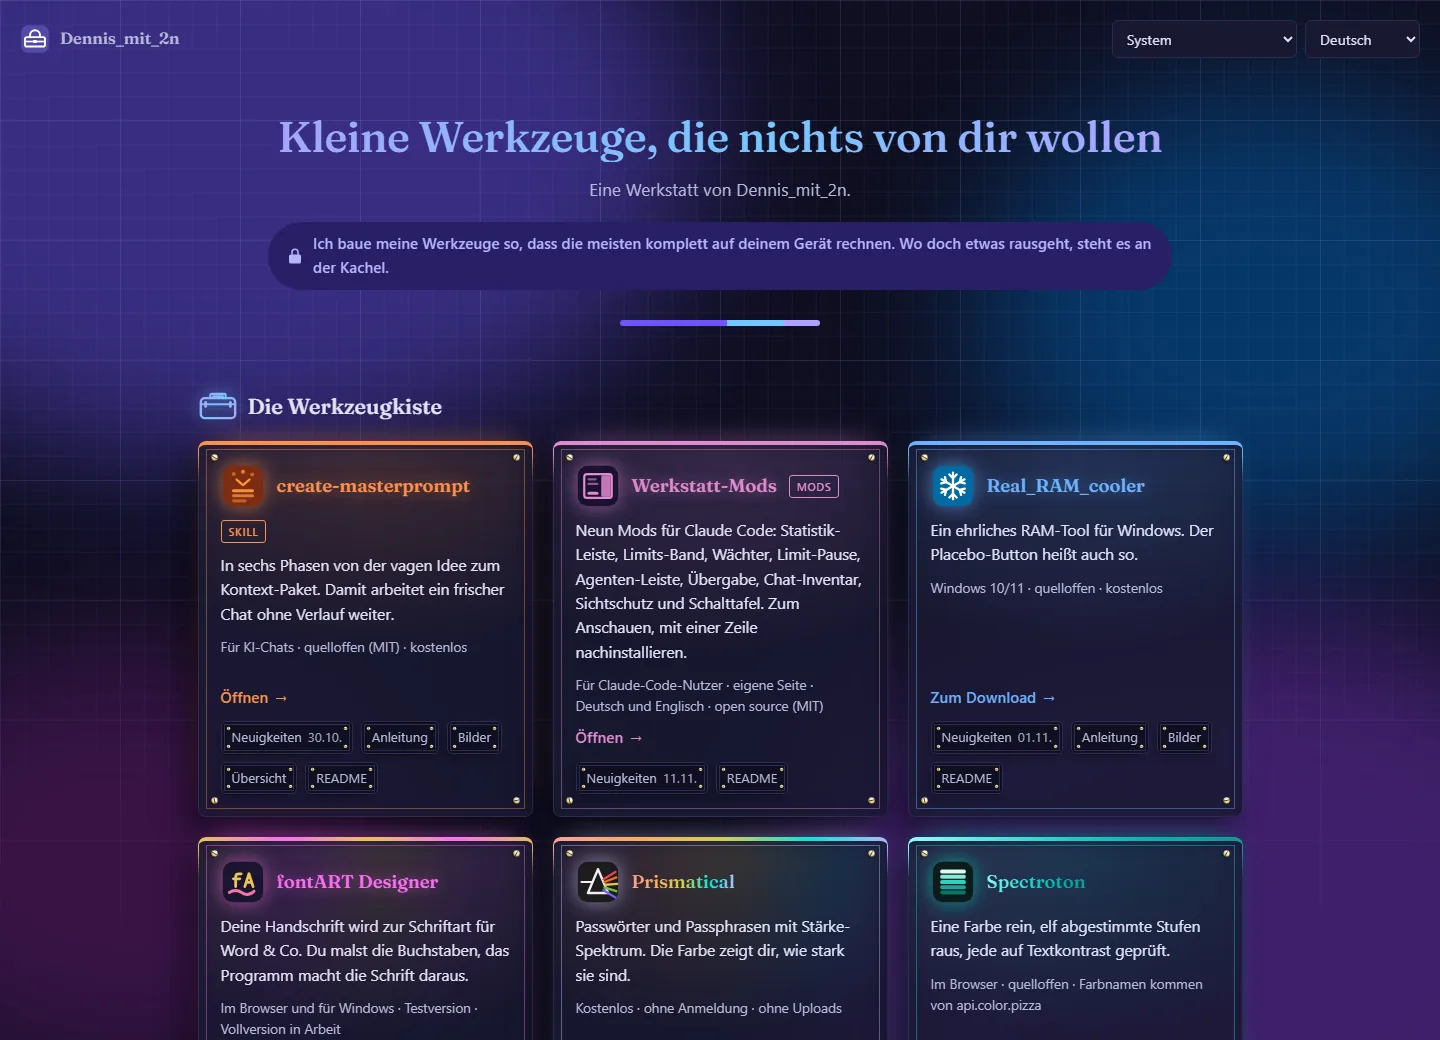
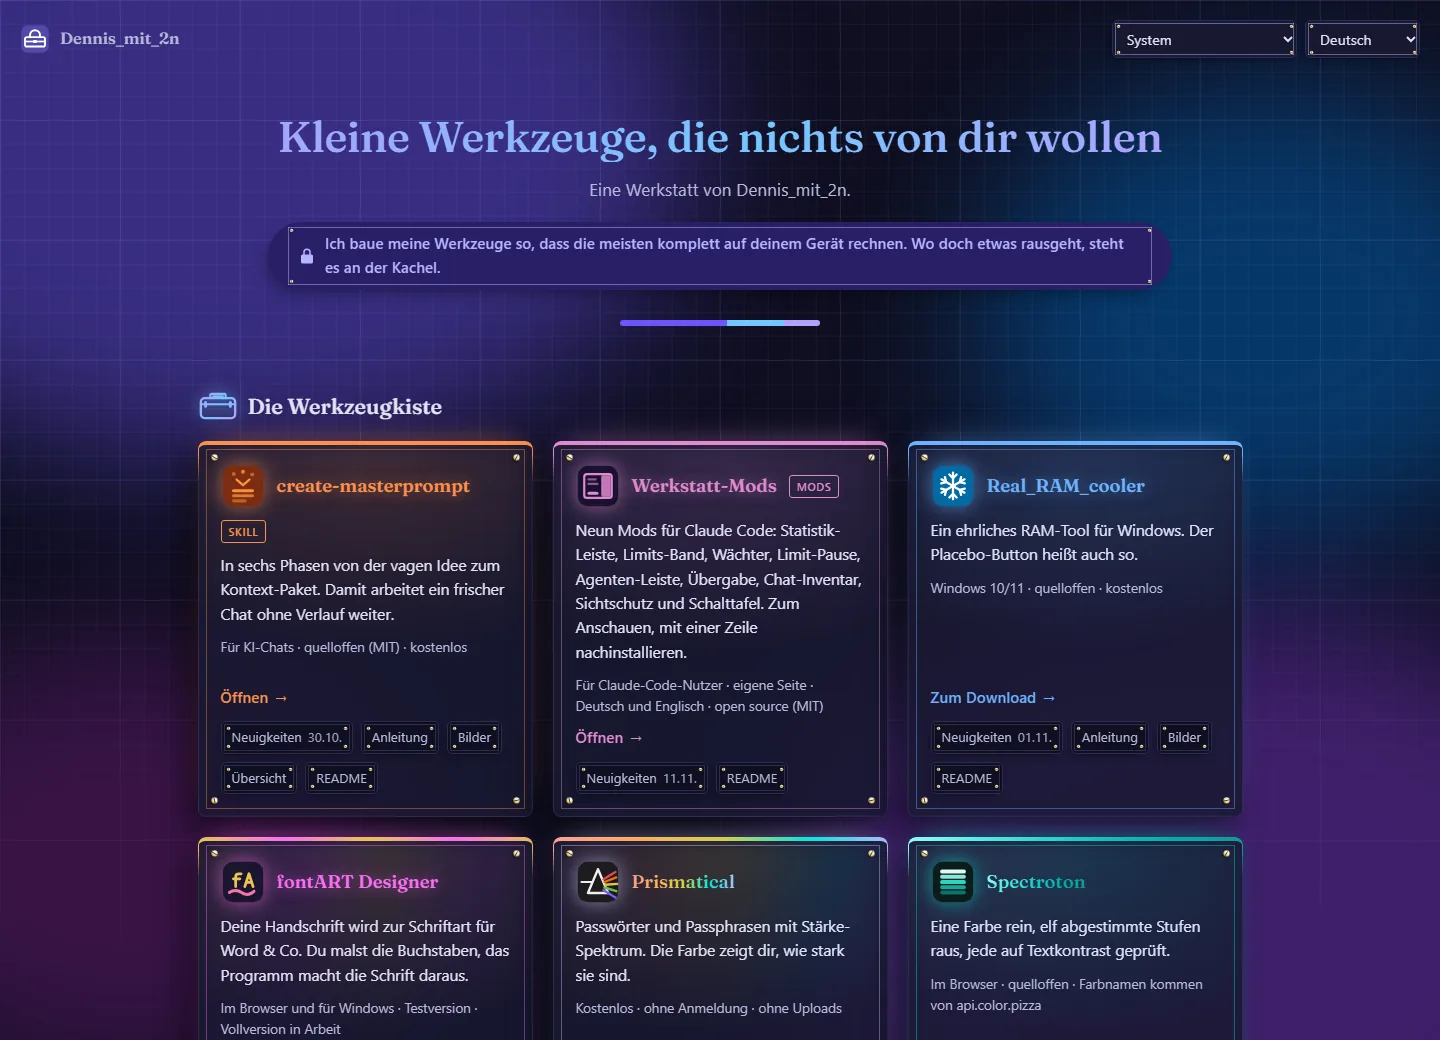
Beschlag überall: Dropdowns, Zusage, Werkstatt-Abschnitte, Bildrahmen, Mod-Karten, Code-Kästen, Knöpfe
Alles mit Rahmen trägt den eckigen Innenrahmen und vier Schrauben, als
Hintergrund-Ebenen (--beschlag), weil ein select kein ::before kennt.
Bildrahmen tragen ihn als ::after über dem Bild. Jeder Kasten wirft
seinen Schatten nach links unten, auch die Platzhalter. Die Zusage hat
12 px mehr Seitenabstand, damit der eckige Rahmen in die Pille passt.
Stempel 2026-11-12b.

Changed region(s): [[0.1875, 0.2154, 0.8125, 0.3077]]

diff --git a/css/style.css b/css/style.css
@@ -1807,3 +1807,121 @@ details.mod[open] .mod-chevron { transform: rotate(180deg); }
 .mod-source a { color: var(--accent); font-weight: 500; text-decoration: none; }
 .mod-source a:hover { text-decoration: underline; }
 @media (prefers-reduced-motion: reduce) { .mod-chevron { transition: none; } }
+
+/* Beschlag überall (12.11.2026, Dennis: „wirklich überall, auch an den
+   Dropdown-Menüs“). Alles, was einen Rahmen hat, trägt denselben eckigen
+   Innenrahmen mit vier Schrauben wie die Kacheln, und jeder Kasten wirft
+   seinen Schatten nach links unten.
+   Hier liegt der Beschlag als Hintergrund-Ebenen statt als Pseudo-Element:
+   ein <select> kennt kein ::before, und so braucht keins dieser Bauteile eine
+   freie Ebene. --beschlag sind acht Ebenen (vier Schrauben, vier Linien), jedes
+   Bauteil setzt sie vor seinen eigenen Grund. Maße je Bauteil:
+   --bi Abstand des Rahmens von der Innenkante, --bg Schraubengröße,
+   --ba Abstand der Schraube vom Rahmen, --bl Linienfarbe.
+   Die Bildrahmen (.wk-shot-frame, .mod-shot) sind ganz vom Bild bedeckt, dort
+   liegt der Beschlag als ::after über dem Bild. */
+#langSelect,
+#themeSelect,
+.pledge,
+.wk-tool,
+details.mod,
+.mod-line,
+.mod-prompt,
+.copy-btn,
+.wk-shot-frame::after,
+.mod-shot::after {
+  --bi: 2px;
+  --bg: 4.5px;
+  --ba: 1px;
+  --bl: var(--border);
+  --beschlag:
+    var(--schraube-1) left calc(var(--bi) + var(--ba)) top calc(var(--bi) + var(--ba)) / var(--bg) var(--bg) no-repeat,
+    var(--schraube-2) right calc(var(--bi) + var(--ba)) top calc(var(--bi) + var(--ba)) / var(--bg) var(--bg) no-repeat,
+    var(--schraube-3) left calc(var(--bi) + var(--ba)) bottom calc(var(--bi) + var(--ba)) / var(--bg) var(--bg) no-repeat,
+    var(--schraube-4) right calc(var(--bi) + var(--ba)) bottom calc(var(--bi) + var(--ba)) / var(--bg) var(--bg) no-repeat,
+    linear-gradient(var(--bl), var(--bl)) center top var(--bi) / calc(100% - 2 * var(--bi)) 1px no-repeat,
+    linear-gradient(var(--bl), var(--bl)) center bottom var(--bi) / calc(100% - 2 * var(--bi)) 1px no-repeat,
+    linear-gradient(var(--bl), var(--bl)) left var(--bi) center / 1px calc(100% - 2 * var(--bi)) no-repeat,
+    linear-gradient(var(--bl), var(--bl)) right var(--bi) center / 1px calc(100% - 2 * var(--bi)) no-repeat;
+}
+@supports (color: color-mix(in srgb, red 50%, transparent)) {
+  #langSelect, #themeSelect, .pledge { --bl: color-mix(in srgb, var(--accent) 48%, transparent); }
+  .wk-tool, .wk-shot-frame::after { --bl: color-mix(in srgb, var(--tool, var(--accent)) 42%, transparent); }
+  details.mod, .mod-line, .mod-prompt, .copy-btn, .mod-shot::after { --bl: color-mix(in srgb, var(--mods) 45%, transparent); }
+}
+/* Dropdowns: der Text beginnt bei 10 px, die Schrauben enden bei 7,5. */
+#langSelect,
+#themeSelect {
+  background: var(--beschlag), var(--panel);
+  box-shadow: -3px 4px 8px -4px rgba(0, 0, 0, 0.55);
+}
+/* Die Zusage ist eine Pille, einzeilig mit rund 22 px Radius, zweizeilig mit 33.
+   Ein eckiger Rahmen passt nur hinein, wenn seine Ecke innerhalb des Bogens
+   liegt: (r - x)² + (r - y)² ≤ r². Mit 5 px von oben und unten braucht er bei
+   r = 33 mindestens 15,5 px von den Seiten, mit Luft 20. Die Zusage bekommt dafür
+   12 px mehr Innenabstand an den Seiten, sonst säßen die Schrauben im Schloss. */
+.pledge {
+  --px: 20px;
+  --py: 5px;
+  --bg: 4.5px;
+  padding-left: 30px;
+  padding-right: 30px;
+  background:
+    var(--schraube-1) left calc(var(--px) + 1px) top calc(var(--py) + 1px) / var(--bg) var(--bg) no-repeat,
+    var(--schraube-2) right calc(var(--px) + 1px) top calc(var(--py) + 1px) / var(--bg) var(--bg) no-repeat,
+    var(--schraube-3) left calc(var(--px) + 1px) bottom calc(var(--py) + 1px) / var(--bg) var(--bg) no-repeat,
+    var(--schraube-4) right calc(var(--px) + 1px) bottom calc(var(--py) + 1px) / var(--bg) var(--bg) no-repeat,
+    linear-gradient(var(--bl), var(--bl)) center top var(--py) / calc(100% - 2 * var(--px)) 1px no-repeat,
+    linear-gradient(var(--bl), var(--bl)) center bottom var(--py) / calc(100% - 2 * var(--px)) 1px no-repeat,
+    linear-gradient(var(--bl), var(--bl)) left var(--px) center / 1px calc(100% - 2 * var(--py)) no-repeat,
+    linear-gradient(var(--bl), var(--bl)) right var(--px) center / 1px calc(100% - 2 * var(--py)) no-repeat,
+    var(--accent-soft);
+  box-shadow: -6px 8px 18px -8px rgba(0, 0, 0, 0.5);
+}
+/* Abschnitte der Werkstatt: wie die Kacheln der Startseite. */
+.wk-tool {
+  --bi: 6px;
+  --bg: 9px;
+  --ba: 3px;
+  background: var(--beschlag), var(--panel-veil);
+}
+/* Mods-Seite: Karten, Code-Kästen und Kopierknöpfe. */
+details.mod {
+  --bi: 5px;
+  --bg: 8px;
+  --ba: 2.5px;
+  background: var(--beschlag), var(--panel);
+  box-shadow: var(--shadow);
+}
+.mod-line,
+.mod-prompt {
+  --bi: 3px;
+  --bg: 5px;
+  --ba: 1.5px;
+  background: var(--beschlag), var(--bg);
+  box-shadow: -4px 5px 12px -6px rgba(0, 0, 0, 0.5);
+}
+.copy-btn {
+  background: var(--beschlag), transparent;
+  box-shadow: -3px 4px 8px -4px rgba(0, 0, 0, 0.55);
+}
+.copy-btn:hover, .copy-btn:focus-visible, .copy-btn.is-copied { background: var(--beschlag), var(--mods); }
+/* Bildrahmen: Beschlag über dem Bild, nimmt keine Klicks an. */
+.wk-shot-frame,
+.mod-shot { position: relative; box-shadow: -5px 6px 14px -6px rgba(0, 0, 0, 0.5); }
+.mod-shot { width: fit-content; max-width: 100%; border-radius: 6px; }
+.wk-shot-frame::after,
+.mod-shot::after {
+  --bi: 3px;
+  --bg: 6px;
+  --ba: 1.5px;
+  content: '';
+  position: absolute;
+  inset: 0;
+  background: var(--beschlag);
+  pointer-events: none;
+}
+/* Auch die Platzhalter werfen jetzt ihren Schatten: sämtliche Kacheln. */
+.tool-platzhalter { box-shadow: var(--shadow); }
+/* Hoher Kontrast kennt keine Schatten (siehe oben), der Beschlag bleibt. */
+:root[data-vision="contrast"] :is(#langSelect, #themeSelect, .pledge, details.mod, .mod-line, .mod-prompt, .copy-btn, .wk-shot-frame, .mod-shot, .tool-platzhalter) { box-shadow: none; }

diff --git a/mods.html b/mods.html
@@ -25,7 +25,7 @@
   <!-- ?v=<datum> wie in index.html, werkstatt.html und gaming.html: bei jedem Deploy,
        der CSS oder JS ändert, in ALLEN Seiten hochsetzen. -->
   <link rel="preload" href="./assets/fonts/fraunces/fraunces-latin-wght-normal.woff2" as="font" type="font/woff2" crossorigin>
-  <link rel="stylesheet" href="./css/style.css?v=2026-11-11d">
+  <link rel="stylesheet" href="./css/style.css?v=2026-11-12b">
   <script>(function(){var v=null,r=document.documentElement,m=window.matchMedia,t=null,s=null;try{v=localStorage.getItem('werkstatt.darstellung')||localStorage.getItem('dennismit2n-home.theme');}catch(e){}var d=!!(m&&m('(prefers-color-scheme: dark)').matches),k=!!(m&&m('(prefers-contrast: more)').matches);if(v==='light'||v==='dark'){t=v;}else if(v==='hc-dark'||v==='hc-light'){t=v.slice(3);s='contrast';}else if(v==='cvd-dark'||v==='cvd-light'){t=v.slice(4);s='cvd';}else if(v==='invert'){s='invert';}else if(v&&/dark/.test(v)){t='dark';}else if(v&&/light/.test(v)){t='light';}else if(k){t=d?'dark':'light';s='contrast';}if(t){r.setAttribute('data-theme',t);}if(s){r.setAttribute('data-vision',s);}})();</script>
   <!-- Dasselbe Kopf-Skript wie in index.html (.i18n-wartet), samt eigener Kopie
        der Sprachcodes: die Liste muss zu I18N in i18n.js passen. -->

diff --git a/gaming.html b/gaming.html
@@ -25,7 +25,7 @@
   <!-- ?v=<datum> wie in index.html und werkstatt.html: bei jedem Deploy, der CSS
        oder JS ändert, in ALLEN DREI Seiten hochsetzen. -->
   <link rel="preload" href="./assets/fonts/fraunces/fraunces-latin-wght-normal.woff2" as="font" type="font/woff2" crossorigin>
-  <link rel="stylesheet" href="./css/style.css?v=2026-11-11d">
+  <link rel="stylesheet" href="./css/style.css?v=2026-11-12b">
   <script>(function(){var v=null,r=document.documentElement,m=window.matchMedia,t=null,s=null;try{v=localStorage.getItem('werkstatt.darstellung')||localStorage.getItem('dennismit2n-home.theme');}catch(e){}var d=!!(m&&m('(prefers-color-scheme: dark)').matches),k=!!(m&&m('(prefers-contrast: more)').matches);if(v==='light'||v==='dark'){t=v;}else if(v==='hc-dark'||v==='hc-light'){t=v.slice(3);s='contrast';}else if(v==='cvd-dark'||v==='cvd-light'){t=v.slice(4);s='cvd';}else if(v==='invert'){s='invert';}else if(v&&/dark/.test(v)){t='dark';}else if(v&&/light/.test(v)){t='light';}else if(k){t=d?'dark':'light';s='contrast';}if(t){r.setAttribute('data-theme',t);}if(s){r.setAttribute('data-vision',s);}})();</script>
   <!-- Dasselbe Kopf-Skript wie in index.html (.i18n-wartet), samt eigener Kopie
        der Sprachcodes — die Liste muss zu I18N in i18n.js passen. -->

diff --git a/index.html b/index.html
@@ -36,7 +36,7 @@
   <!-- Die Überschriftenschrift wird auf jeder Seite und in jeder Sprache gebraucht
        (mindestens für den Markennamen), also früh anstoßen statt erst nach der CSS. -->
   <link rel="preload" href="./assets/fonts/fraunces/fraunces-latin-wght-normal.woff2" as="font" type="font/woff2" crossorigin>
-  <link rel="stylesheet" href="./css/style.css?v=2026-11-11d">
+  <link rel="stylesheet" href="./css/style.css?v=2026-11-12b">
   <!-- Darstellung vor dem ersten Bild: die gemeinsame Wahl aller Werkzeuge
        (werkstatt.darstellung, sonst der alte Schlüssel), sonst entscheidet das
        System per CSS. data-vision trägt Hoher Kontrast, Farbenblind und Umkehr;

diff --git a/werkstatt.html b/werkstatt.html
@@ -30,7 +30,7 @@
   <!-- Die Überschriftenschrift wird auf jeder Seite und in jeder Sprache gebraucht
        (mindestens für den Markennamen), also früh anstoßen statt erst nach der CSS. -->
   <link rel="preload" href="./assets/fonts/fraunces/fraunces-latin-wght-normal.woff2" as="font" type="font/woff2" crossorigin>
-  <link rel="stylesheet" href="./css/style.css?v=2026-11-11d">
+  <link rel="stylesheet" href="./css/style.css?v=2026-11-12b">
   <!-- Darstellung vor dem ersten Bild: die gemeinsame Wahl aller Werkzeuge
        (werkstatt.darstellung, sonst der alte Schlüssel), sonst entscheidet das
        System per CSS. data-vision trägt Hoher Kontrast, Farbenblind und Umkehr;

diff --git a/README.md b/README.md
@@ -63,7 +63,7 @@ The interface words exist in all 14 languages, and since 14 September 2026 so do
 
 *Look (since 30 October 2026):* the tiles fill the width of the window, one column on a phone, up to five on a wide screen (the page is at most 1680 px wide, the hero stays narrow). Behind everything, four soft colour clouds drift slowly over the construction grid of the blueprint drawing from the profile README; they stand still for anyone who has asked their system for reduced motion. The clouds carry a lot of colour but little brightness, so text that stands directly on them keeps 4.6:1 even where two of them overlap. Every tile glows in its own colour (a haze from its colour cap, a soft light around the top edge and its icon). The light theme is deliberately muted (background `#DADBE6` instead of near-white), and every tile colour was recalculated for it; the hues of tiles that looked alike (Real_RAM_cooler, Heizwarte and WiFi QR Card, shrinkling and Besucher-Ticker, Zählwerk and Collective-Calc) were pulled apart. The section headings carry drawn icons instead of emoji: the flat toolbox from the profile README, and a gamepad on the gaming page.
 
-*Fittings (since 11 November 2026):* inside its rounded outline every tile carries a square frame, like a plate screwed on, with a small white gold screw in each corner. The mini tiles carry the same in small. The light comes from the top right, so the shadows of tiles and screws fall to the bottom left, and each screw sits at its own angle, tightened by hand rather than aligned. The frame hangs on `.tool-open::before` (the tile’s own `::before` and `::after` already hold the cap and the glow) and takes no clicks; the four screws are small inline SVGs, `--schraube-1` to `--schraube-4` in `css/style.css`. The cards of the profile README and the promo images carry the same fittings.
+*Fittings (since 11 November 2026):* inside its rounded outline every tile carries a square frame, like a plate screwed on, with a small white gold screw in each corner. The mini tiles carry the same in small. The light comes from the top right, so the shadows of tiles and screws fall to the bottom left, and each screw sits at its own angle, tightened by hand rather than aligned. The frame hangs on `.tool-open::before` (the tile’s own `::before` and `::after` already hold the cap and the glow) and takes no clicks; the four screws are small inline SVGs, `--schraube-1` to `--schraube-4` in `css/style.css`. The cards of the profile README and the promo images carry the same fittings. Since 12 November 2026 everything else with a border carries them too: the two dropdowns in the header, the pledge, the sections and picture frames on `werkstatt.html`, and the cards, code boxes and copy buttons on `mods.html`. There the fittings are background layers (`--beschlag`, eight layers: four screws, four lines) instead of a pseudo-element, because a `<select>` has no `::before`; the picture frames carry them as `::after` on top of the picture. Every box, the placeholders included, now casts its shadow to the bottom left.
 
 *Display modes (since 31 October 2026):* the appearance menu offers eight entries: System, Light, Dark, High contrast dark, High contrast light, Colour-blind dark, Colour-blind light and Inverted colours. The choice is stored as `werkstatt.darstellung` in localStorage and holds for every tool of the workshop, because they all live on this origin (the old key `dennismit2n-home.theme` is still read as a fallback). A small script in the `<head>` of each page turns it into two attributes before the first paint: `data-theme` (light or dark, as before) and `data-vision` (`contrast`, `cvd` or `invert`); `js/header.js` does the same at runtime and follows the system live. *System* also follows the device setting “increase contrast” and then shows high contrast. High contrast drops the clouds, glows, translucency and gradients; text is `#E0E0E0` on black or black on white, and every colour holds 7:1. This page has no colours that carry meaning, so colour-blind looks like light or dark here; the tools swap their meaning colours themselves. Inverted colours works like the colour filter of Windows (`filter: invert(1)` on the page); screenshots are flipped back so they stay true. Inverting does not keep WCAG contrast, so a few tile colours are lightened in that mode until they hold 4.5:1 after the flip. The three colour blocks at the top of `css/style.css` stay untouched; the modes live in their own blocks at the end of the file.
 
